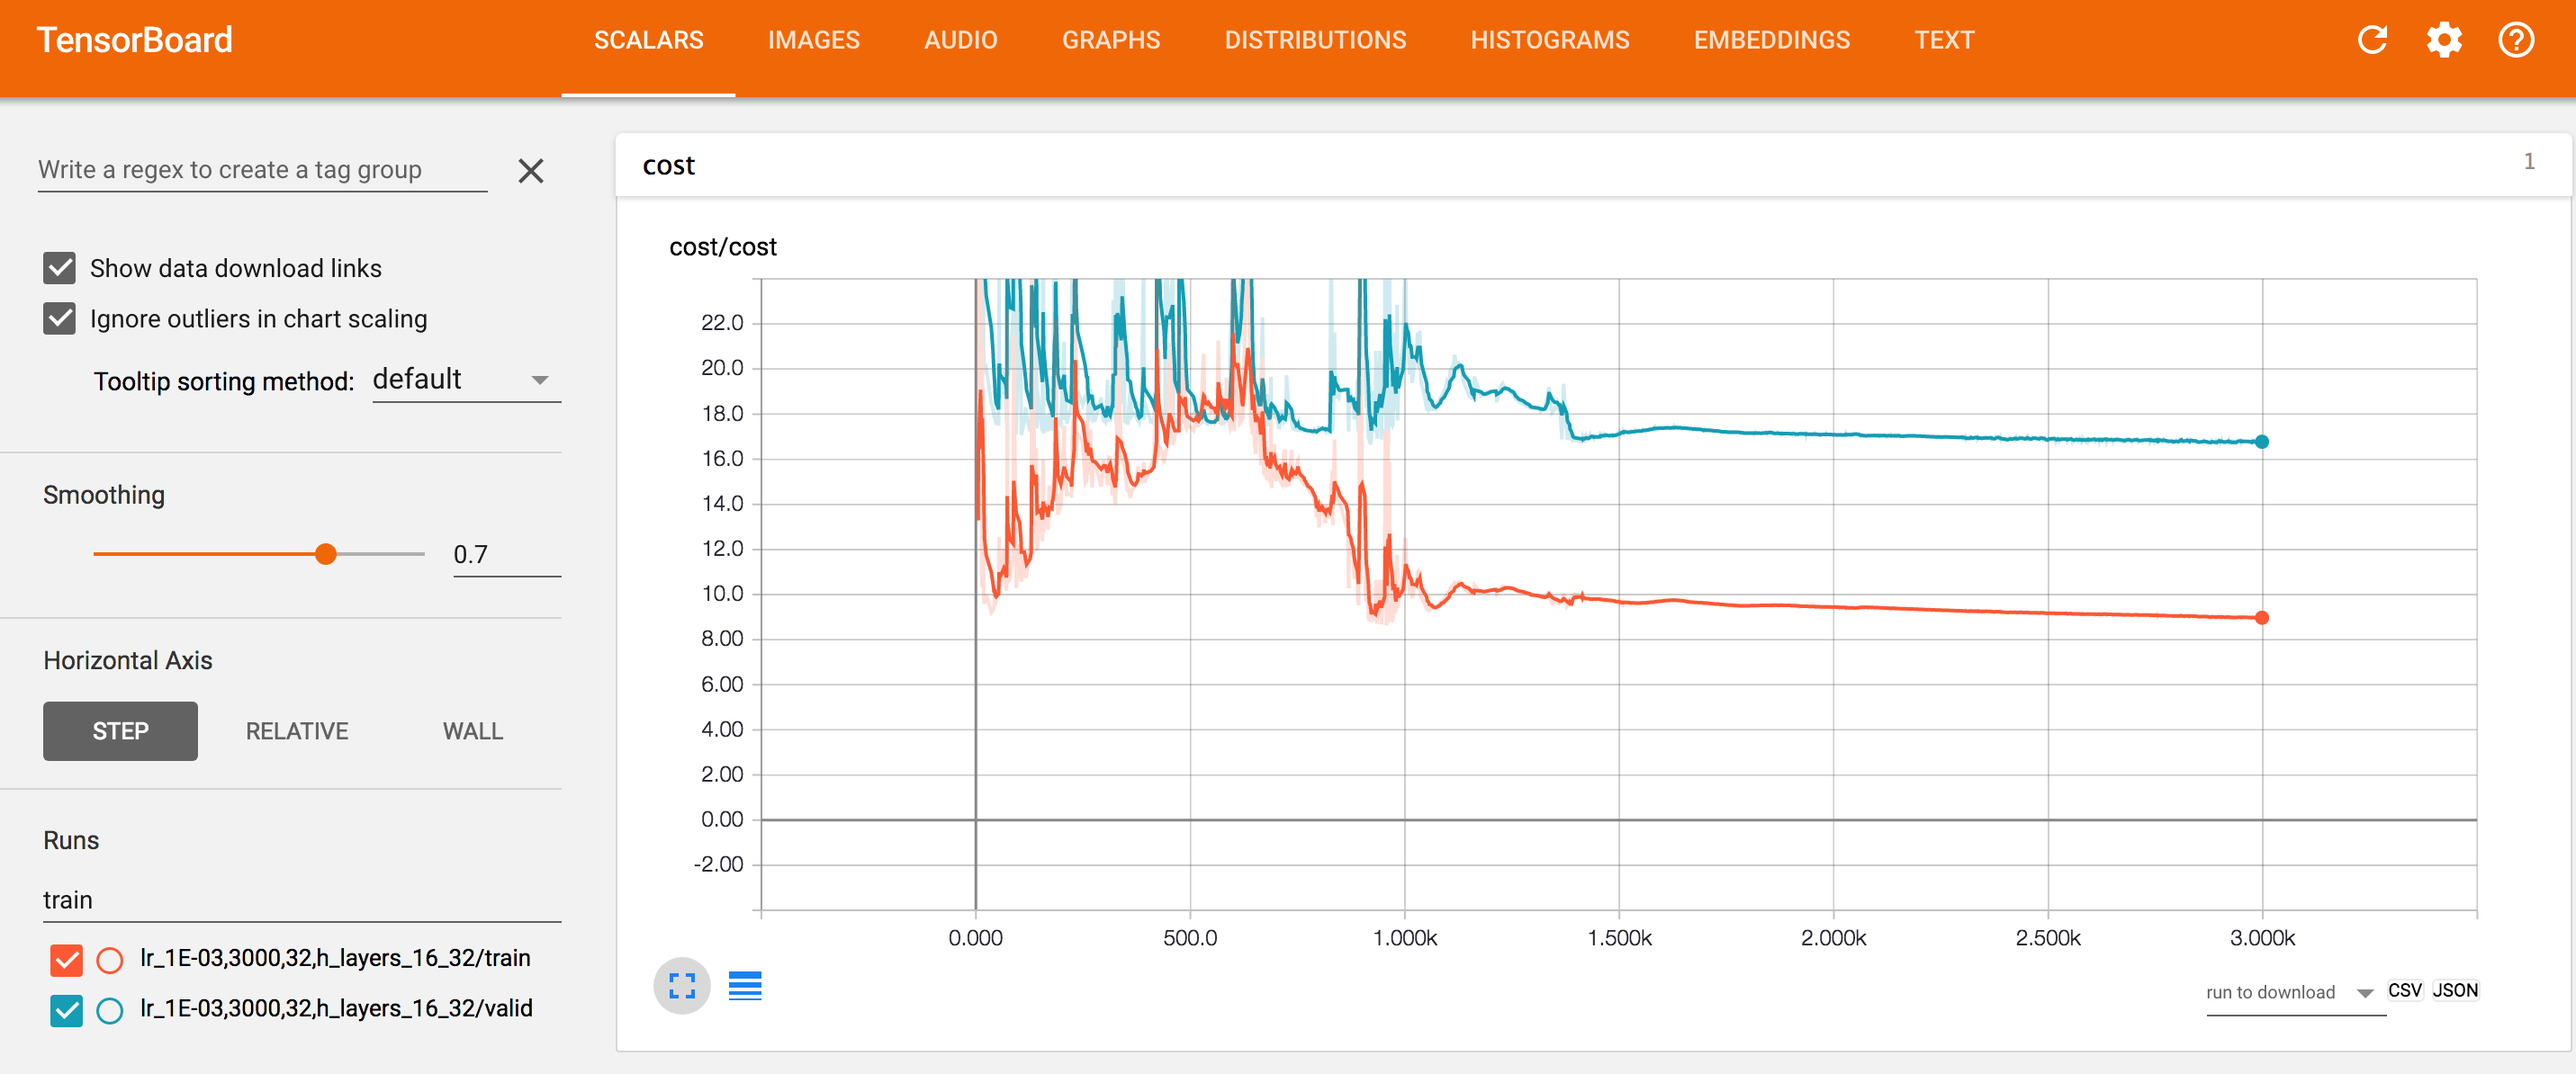
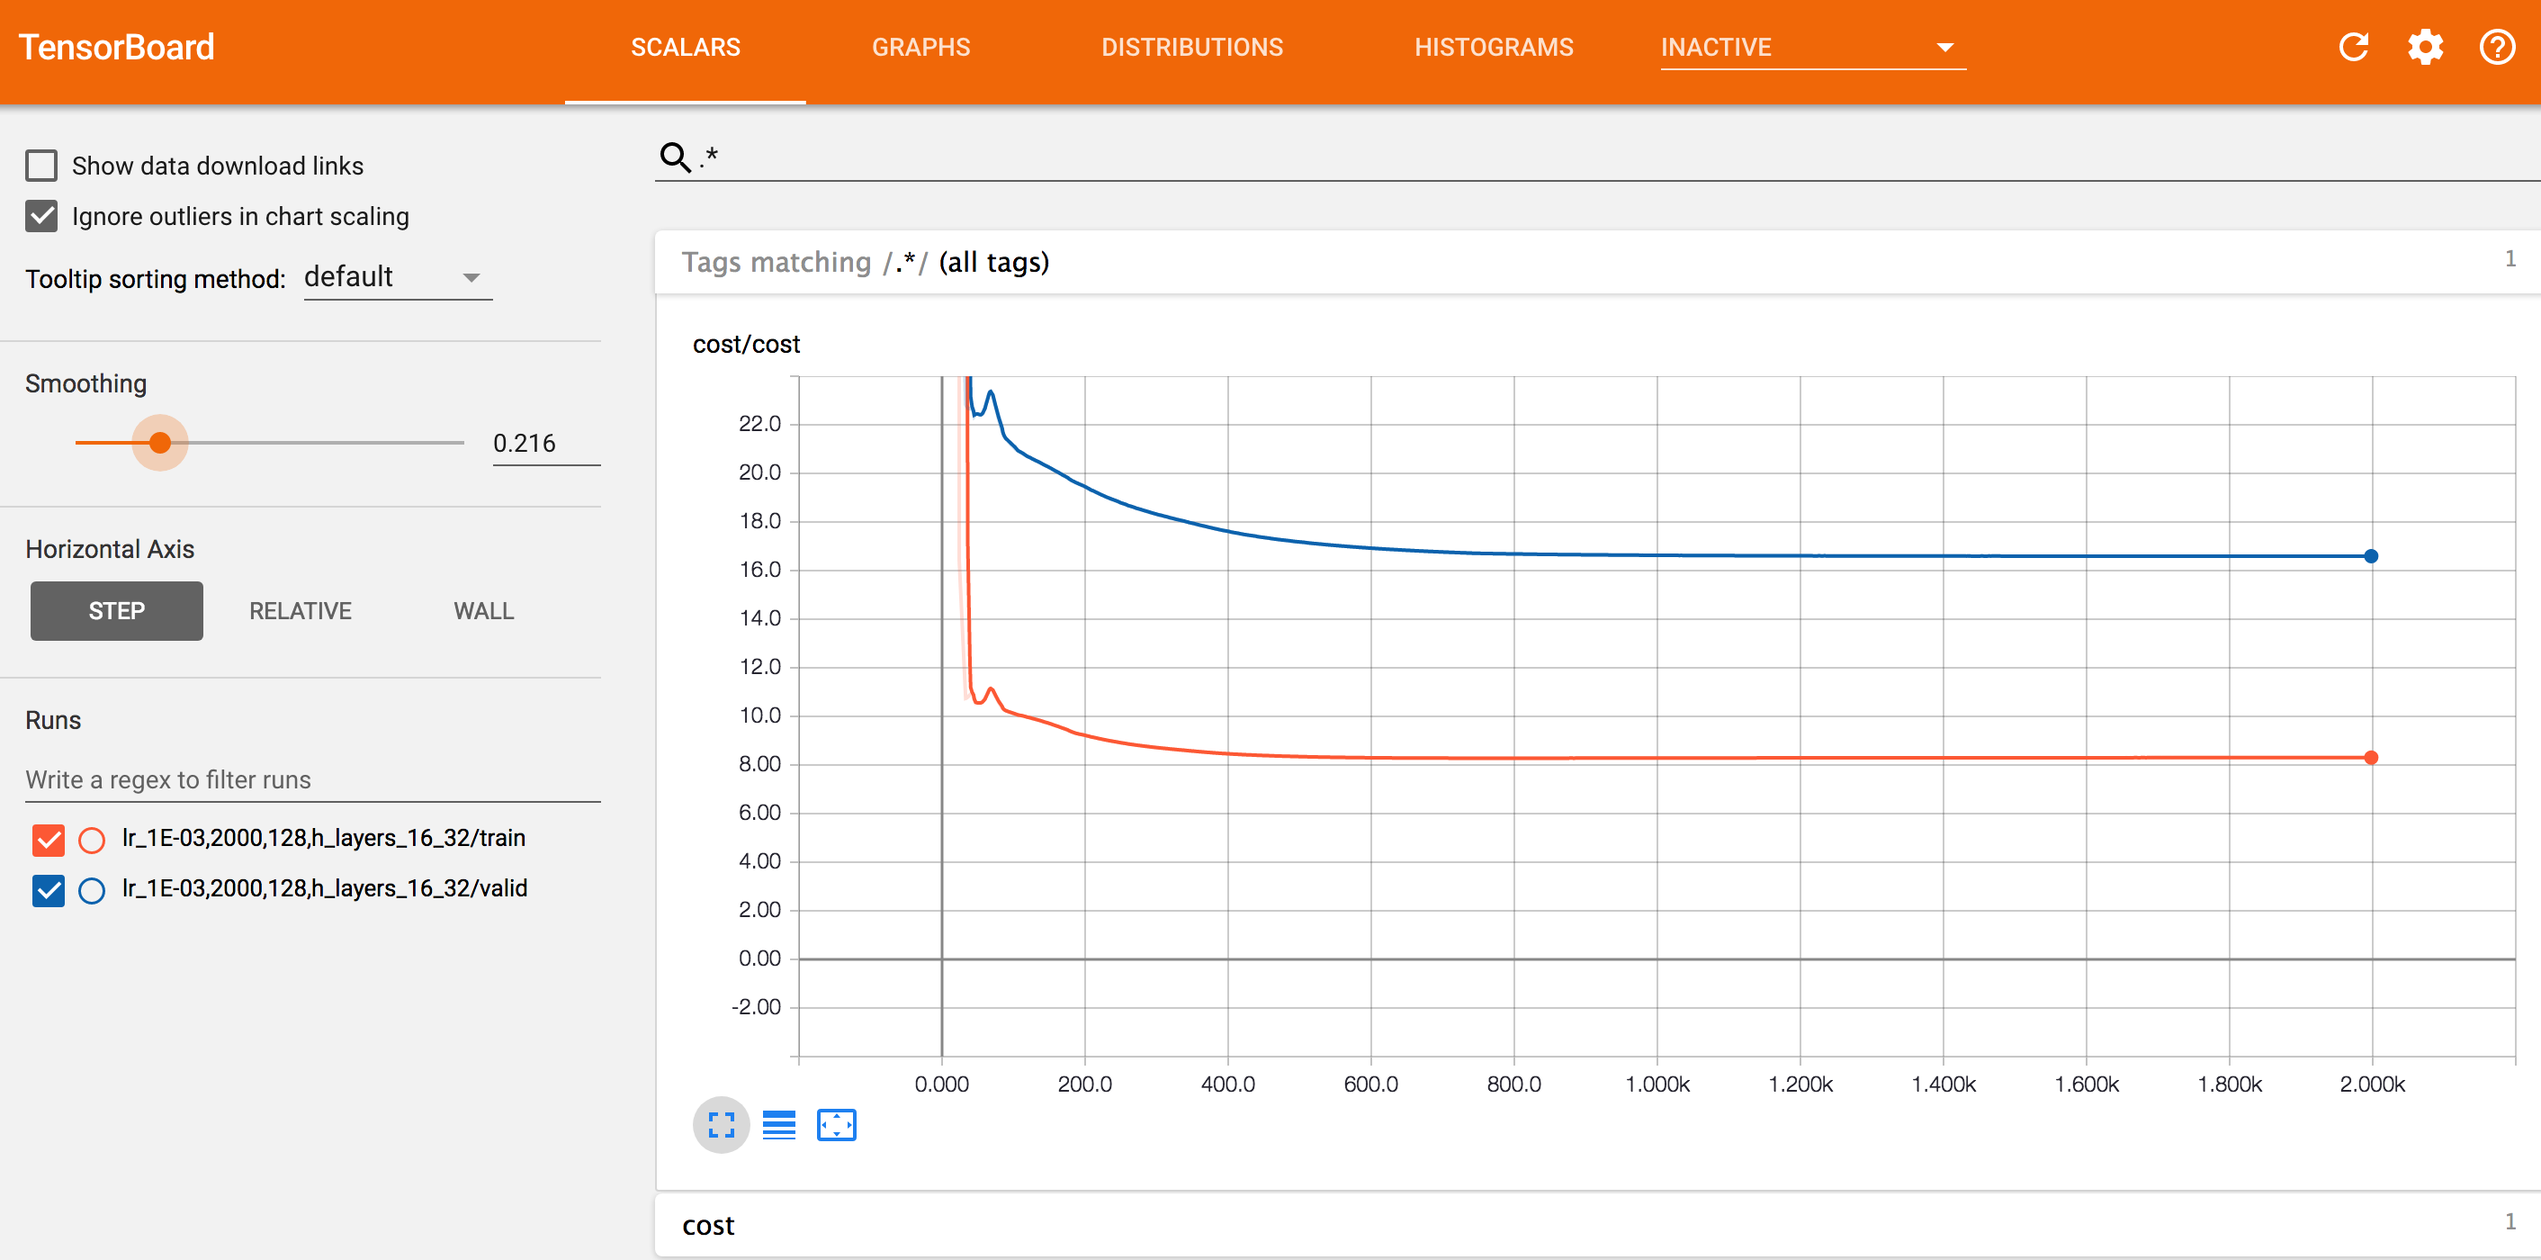
new result with lr=1E-4

diff --git a/stock.py b/stock.py
@@ -192,10 +192,8 @@ def run_tf(log_timestr, X_train_valid_test, y_train_valid_test, turn_on_tf_board
         # tf.summary.scalar("rmse_valid", rmse_valid)
     
     with tf.name_scope("optimizer"):
-        # less stable during training
-        optimizer = tf.train.AdamOptimizer(lr).minimize(cost)
-        # more stable
-        # optimizer = tf.train.AdagradOptimizer(lr).minimize(cost)
+        optimizer = tf.train.AdamOptimizer(1E-4).minimize(cost)
+        # optimizer = tf.train.AdagradOptimizer(1E-4).minimize(cost)
     
     merged = tf.summary.merge_all()
     
@@ -402,9 +400,9 @@ def main():
     
     # Hyper parameters default values
     lr = 1E-3
-    epochs = 3000
-    # batch_size = 128
-    batch_size = 32
+    epochs = 2000
+    batch_size = 128
+    # batch_size = 32
     hidden_layers = [16, 32]
     # hidden_layers = [16]
     

diff --git a/README.md b/README.md
@@ -50,20 +50,16 @@ using `spyder` to run stock.py (Recommended)
   
 **Results (may fluctuate):**  
 Final total_loss: 
-
-rmse_train= 8.945, lr_1E-03,3000,32,h_layers_16_32
-max/min difference: 83.792 to -66.364
-
-rmse_valid= 16.706, lr_1E-03,3000,32,h_layers_16_32
-max/min difference: 107.097 to -95.214
-___
-Naive model: 
-
-rmse_train= 8.655
-max/min difference: 95.897 to -76.097
-
-rmse_valid= 16.867
-max/min difference: 99.107 to -111.557
+  
+rmse_train = 8.302, lr_1E-03,2000,128,h_layers_16_32  
+error_train = 0.010, lr_1E-03,2000,128,h_layers_16_32  
+max/min difference: 84.397 to -67.111  
+  
+rmse_valid = 16.593, lr_1E-03,2000,128,h_layers_16_32  
+error_valid = 0.010, lr_1E-03,2000,128,h_layers_16_32  
+max/min difference: 106.420 to -102.476  
+  
+---  
   
 **Program Flow:**  
    * import raw data (`pandas`)  
